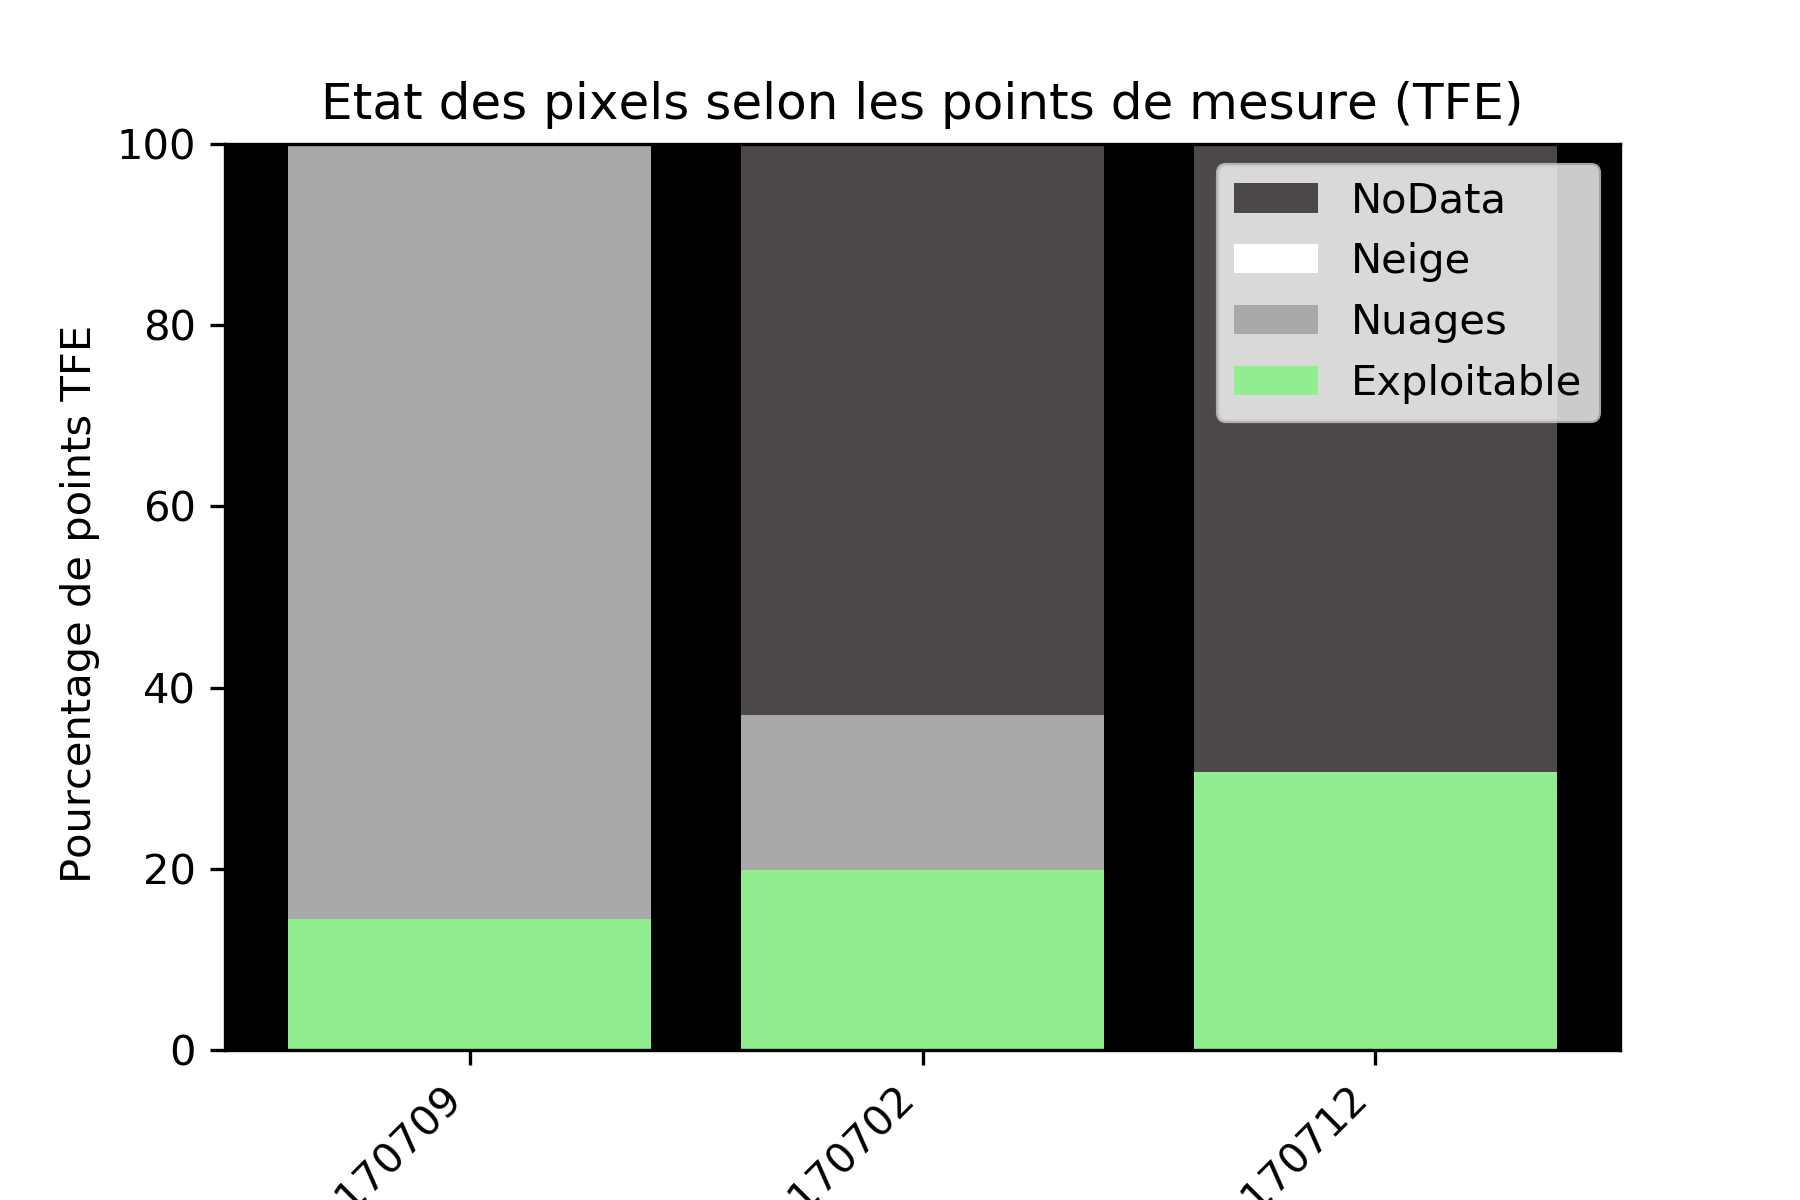
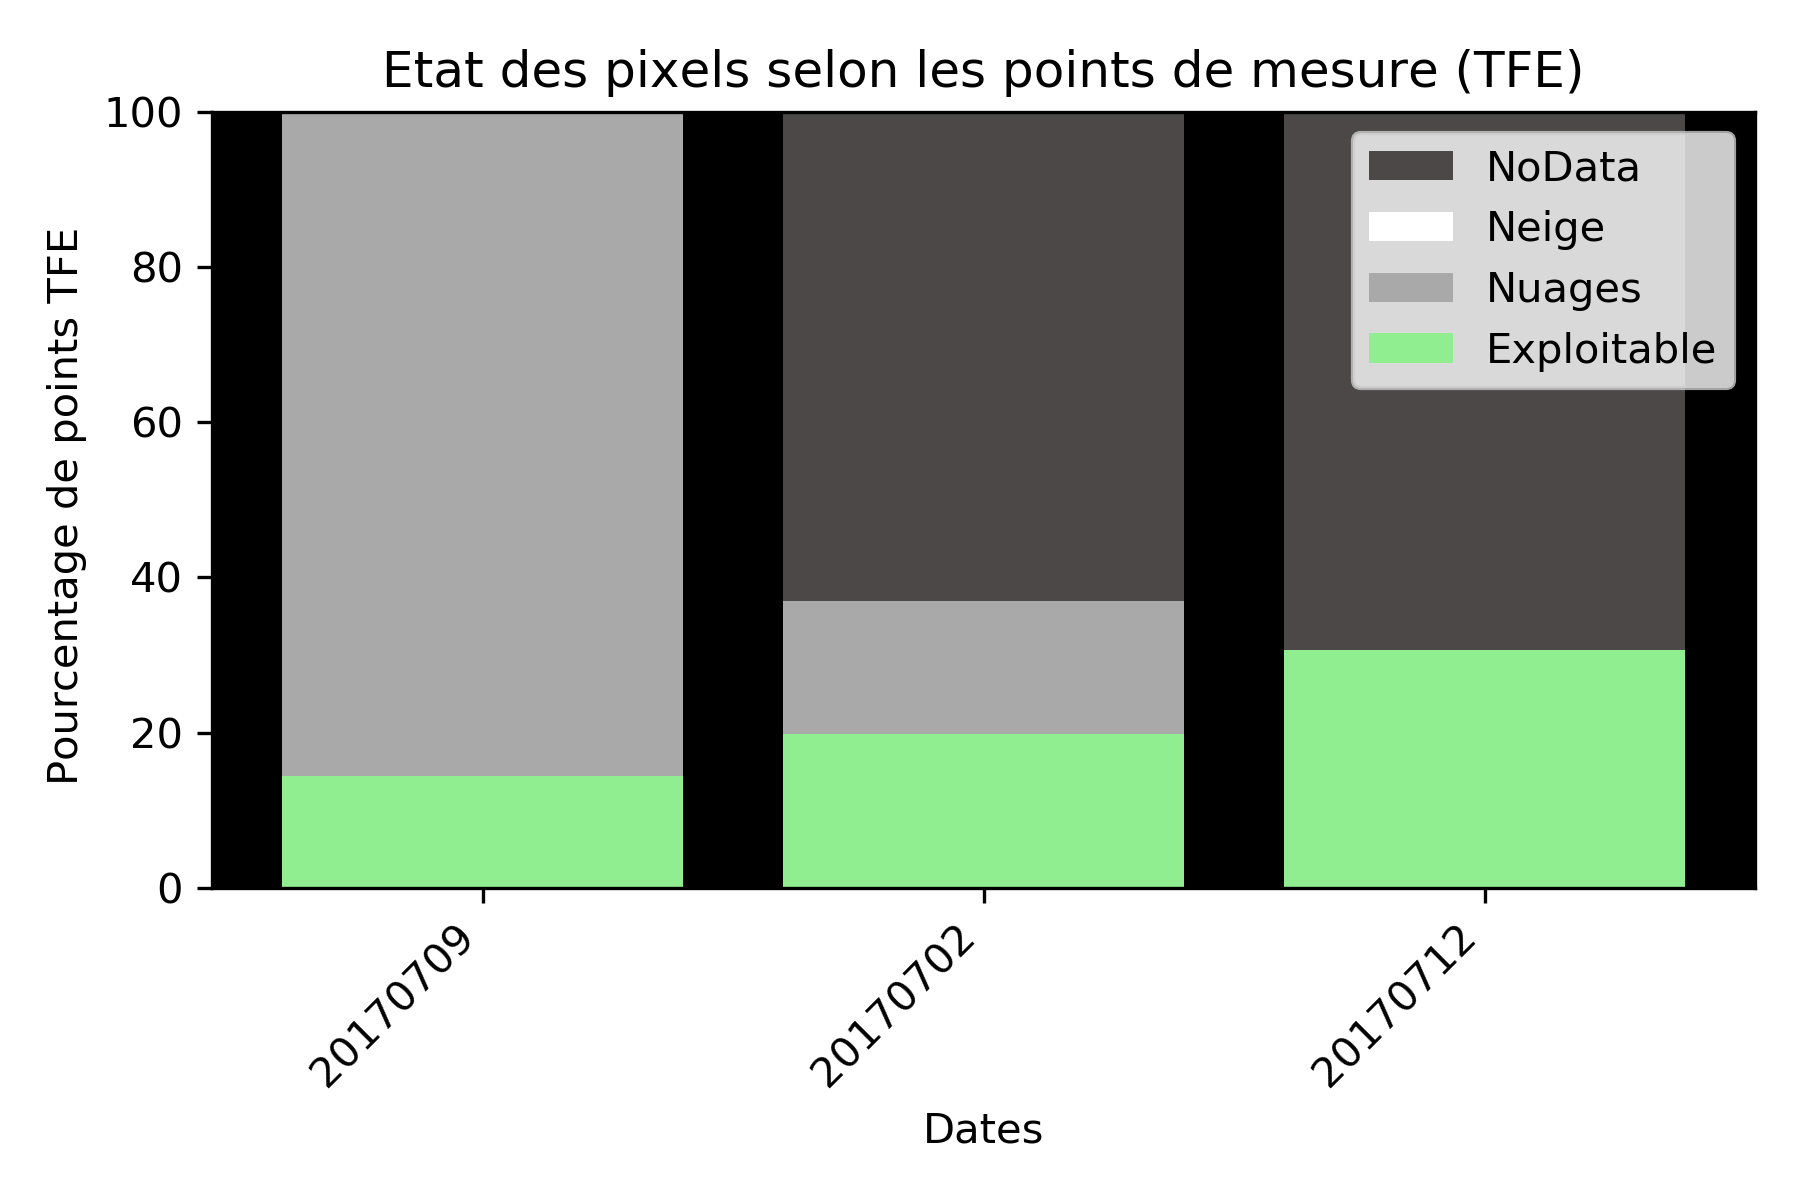
mise en forme graphs

diff --git a/scripts/applicationMasqueSnow/applicationMasqueSnowScript.py b/scripts/applicationMasqueSnow/applicationMasqueSnowScript.py
@@ -159,7 +159,7 @@ plt.ylim = 1.0
     
 plt.setp(plt.gca().get_xticklabels(),rotation=45, horizontalalignment='right')
     
-    
+plt.tight_layout()
 
         
 plt.savefig('sortie/sortieT31TFJ/graphiqueT31TFJ.png', dpi = 300)

diff --git a/scripts/calculIndices/calculIndicesScript.py b/scripts/calculIndices/calculIndicesScript.py
@@ -1,0 +1,7 @@
+#!/usr/bin/env python3
+# -*- coding: utf-8 -*-
+"""
+Created on Tue Jun  8 16:44:05 2021
+
+@author: sirote
+"""
